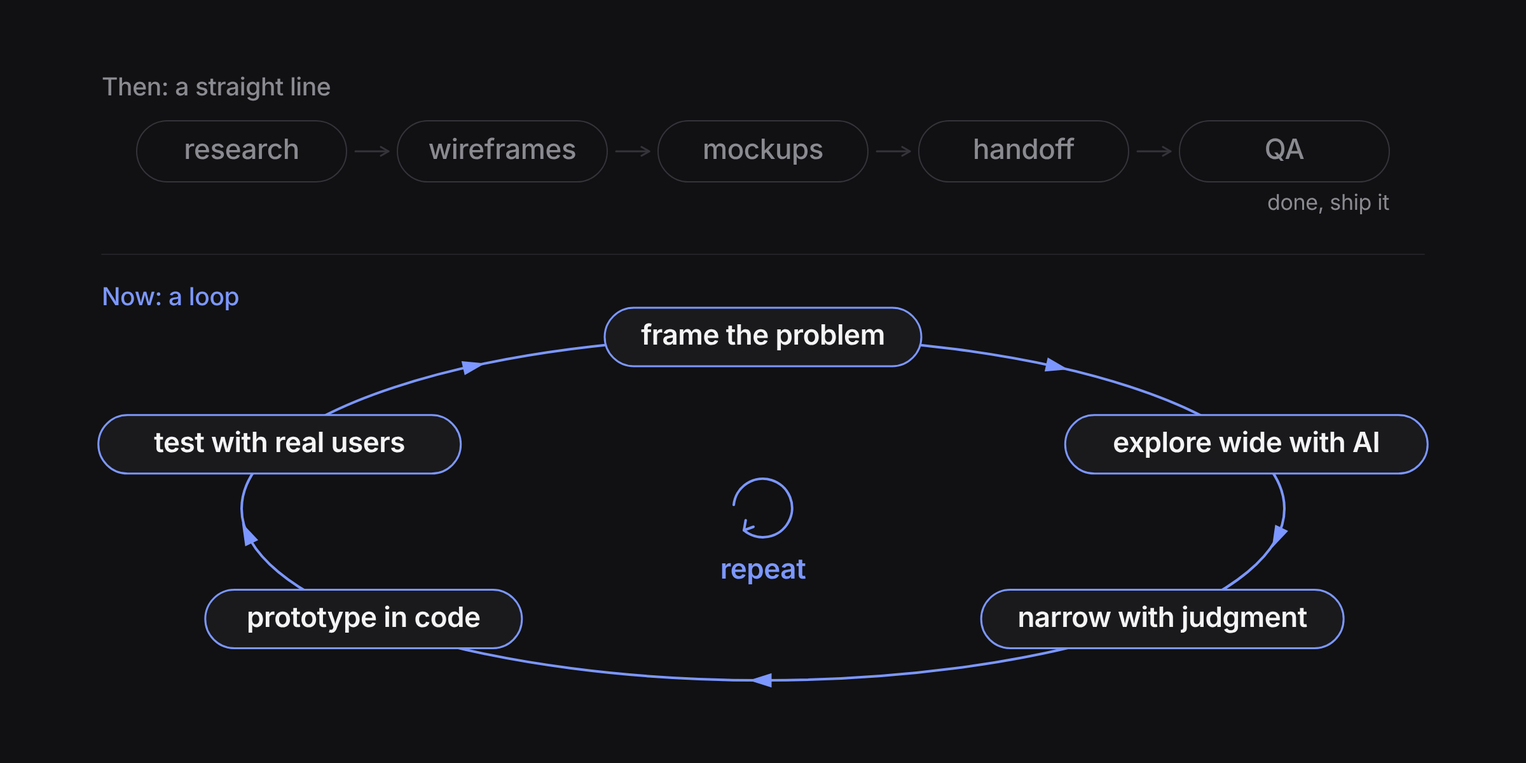
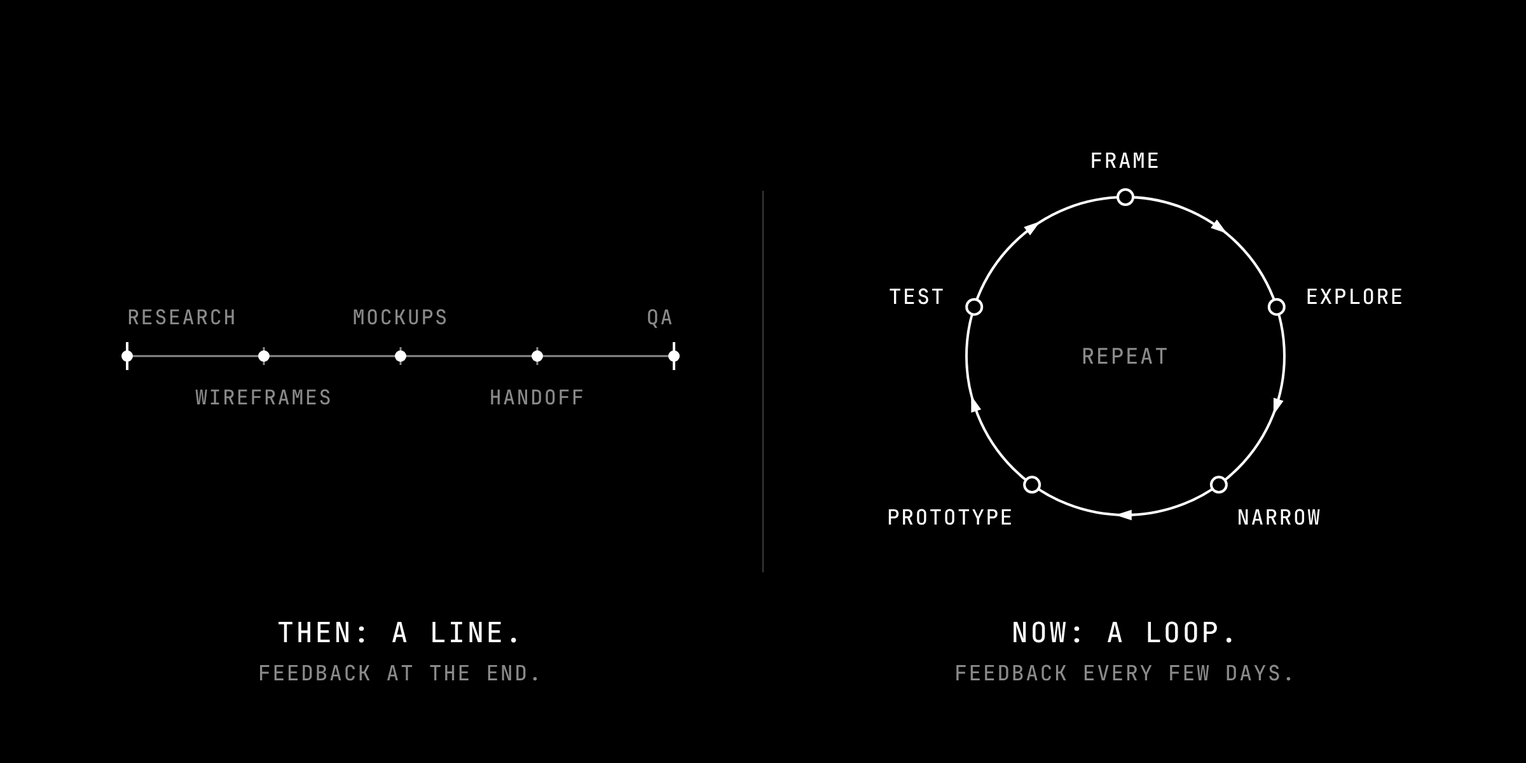
Writing: black and white line-drawing diagrams for the workflow post
Claude-Session: https://claude.ai/code/session_01XsxMJzHnu4bQwP42zg3JzL

diff --git a/p02/writing/workflow.html b/p02/writing/workflow.html
@@ -142,7 +142,7 @@
       <p class="flow">frame the problem → explore wide with AI → narrow with judgment → prototype in code → test with real users → repeat</p>
 
       <figure>
-        <button class="zoom" type="button" aria-label="Enlarge image"><img src="../../img/blog-wf-loop.png" data-light="../../img/blog-wf-loop.png" data-dark="../../img/blog-wf-loop-dark.png" width="2400" height="1200" alt="Diagram: the old process as five steps in a straight line, research, wireframes, mockups, handoff and QA. Below it, the new process as a loop: frame the problem, explore wide with AI, narrow with judgment, prototype in code, test with real users, and repeat."><span class="zoom-hint" aria-hidden="true"><svg width="16" height="16" viewBox="0 0 24 24" fill="none" stroke="currentColor" stroke-width="2" stroke-linecap="round" stroke-linejoin="round"><path d="M15 3h6v6M9 21H3v-6M21 3l-7 7M3 21l7-7"/></svg></span></button>
+        <button class="zoom" type="button" aria-label="Enlarge image"><img src="../../img/blog-wf-loop.png?v=3" data-light="../../img/blog-wf-loop.png?v=3" data-dark="../../img/blog-wf-loop-dark.png?v=3" width="2400" height="1200" alt="Line drawing: the old process as five steps in a straight line, research, wireframes, mockups, handoff and QA. Below it, the new process as a loop: frame the problem, explore wide with AI, narrow with judgment, prototype in code, test with real users, and repeat."><span class="zoom-hint" aria-hidden="true"><svg width="16" height="16" viewBox="0 0 24 24" fill="none" stroke="currentColor" stroke-width="2" stroke-linecap="round" stroke-linejoin="round"><path d="M15 3h6v6M9 21H3v-6M21 3l-7 7M3 21l7-7"/></svg></span></button>
         <figcaption>The old flow ends at QA. The new one keeps going.</figcaption>
       </figure>
 
@@ -164,7 +164,7 @@
       <p>When a designer can build a working version, the conversation with engineers changes. We talk about real behaviour instead of annotated screenshots. Engineers come in earlier, and the prototype becomes something everyone can click, not a document someone has to interpret. Designers aren’t replacing engineers. The overlap between the two roles is simply where a lot of the best work happens now.</p>
 
       <figure>
-        <button class="zoom" type="button" aria-label="Enlarge image"><img src="../../img/blog-wf-blur.png" data-light="../../img/blog-wf-blur.png" data-dark="../../img/blog-wf-blur-dark.png" width="2400" height="1200" loading="lazy" alt="Diagram: on the left, design and engineering as two separate boxes with a wall between them and a spec thrown over it. On the right, design and engineering as two overlapping circles, with prototype and ship in the overlap."><span class="zoom-hint" aria-hidden="true"><svg width="16" height="16" viewBox="0 0 24 24" fill="none" stroke="currentColor" stroke-width="2" stroke-linecap="round" stroke-linejoin="round"><path d="M15 3h6v6M9 21H3v-6M21 3l-7 7M3 21l7-7"/></svg></span></button>
+        <button class="zoom" type="button" aria-label="Enlarge image"><img src="../../img/blog-wf-blur.png?v=3" data-light="../../img/blog-wf-blur.png?v=3" data-dark="../../img/blog-wf-blur-dark.png?v=3" width="2400" height="1200" loading="lazy" alt="Line drawing: on the left, design and engineering as two separate circles with a wall between them and a spec thrown over it. On the right, the two circles overlap, and the shaded overlap is labelled prototype and ship."><span class="zoom-hint" aria-hidden="true"><svg width="16" height="16" viewBox="0 0 24 24" fill="none" stroke="currentColor" stroke-width="2" stroke-linecap="round" stroke-linejoin="round"><path d="M15 3h6v6M9 21H3v-6M21 3l-7 7M3 21l7-7"/></svg></span></button>
         <figcaption>Less throwing specs over the wall, more building in the overlap.</figcaption>
       </figure>
 
@@ -173,7 +173,7 @@
       <p>Deciding which ones matter is the hard part. Every generated option still has to pass the same filters. Does it help the user do what they came to do? Does it serve the business goal? What are we trading away to get it? AI can’t answer those for you, because the answers live in context it doesn’t have. The making got faster. The judgment got more important.</p>
 
       <figure>
-        <button class="zoom" type="button" aria-label="Enlarge image"><img src="../../img/blog-wf-judgment.png" data-light="../../img/blog-wf-judgment.png" data-dark="../../img/blog-wf-judgment-dark.png" width="2400" height="1200" loading="lazy" alt="Diagram: a grid of many generated screens passes through a funnel with three filters, users, business goals and trade-offs, leaving the one screen that matters, marked with a check."><span class="zoom-hint" aria-hidden="true"><svg width="16" height="16" viewBox="0 0 24 24" fill="none" stroke="currentColor" stroke-width="2" stroke-linecap="round" stroke-linejoin="round"><path d="M15 3h6v6M9 21H3v-6M21 3l-7 7M3 21l7-7"/></svg></span></button>
+        <button class="zoom" type="button" aria-label="Enlarge image"><img src="../../img/blog-wf-judgment.png?v=3" data-light="../../img/blog-wf-judgment.png?v=3" data-dark="../../img/blog-wf-judgment-dark.png?v=3" width="2400" height="1200" loading="lazy" alt="Line drawing: a grid of many generated screens passes through a funnel with three filters, users, business goals and trade-offs, leaving the one screen that matters, marked with a check."><span class="zoom-hint" aria-hidden="true"><svg width="16" height="16" viewBox="0 0 24 24" fill="none" stroke="currentColor" stroke-width="2" stroke-linecap="round" stroke-linejoin="round"><path d="M15 3h6v6M9 21H3v-6M21 3l-7 7M3 21l7-7"/></svg></span></button>
         <figcaption>Making got cheap. Deciding which screens matter didn’t.</figcaption>
       </figure>
 
@@ -182,7 +182,7 @@
       <p>Who exactly is this for? Which problem is worth solving first? What moves the numbers for the business? What are we choosing not to build, and why? Designers who can answer those questions, and explain their reasoning to a PM, an engineer or a founder, end up shaping the product instead of decorating it.</p>
 
       <figure>
-        <button class="zoom" type="button" aria-label="Enlarge image"><img src="../../img/blog-wf-product.png" data-light="../../img/blog-wf-product.png" data-dark="../../img/blog-wf-product-dark.png" width="2400" height="1200" loading="lazy" alt="Diagram: pixel polish sits above a dashed line as the part people see. Below the line, three wider layers hold it up: trade-offs, business goals, and users at the base."><span class="zoom-hint" aria-hidden="true"><svg width="16" height="16" viewBox="0 0 24 24" fill="none" stroke="currentColor" stroke-width="2" stroke-linecap="round" stroke-linejoin="round"><path d="M15 3h6v6M9 21H3v-6M21 3l-7 7M3 21l7-7"/></svg></span></button>
+        <button class="zoom" type="button" aria-label="Enlarge image"><img src="../../img/blog-wf-product.png?v=3" data-light="../../img/blog-wf-product.png?v=3" data-dark="../../img/blog-wf-product-dark.png?v=3" width="2400" height="1200" loading="lazy" alt="Line drawing: pixel polish sits above a dashed line as what people see. Below the line, three nested arcs hold it up: trade-offs, business goals, and users as the widest."><span class="zoom-hint" aria-hidden="true"><svg width="16" height="16" viewBox="0 0 24 24" fill="none" stroke="currentColor" stroke-width="2" stroke-linecap="round" stroke-linejoin="round"><path d="M15 3h6v6M9 21H3v-6M21 3l-7 7M3 21l7-7"/></svg></span></button>
         <figcaption>Polish is what people notice. The layers underneath are what make it work.</figcaption>
       </figure>
 
@@ -191,7 +191,7 @@
       <p>Speed doesn’t mean rushing or skipping research. It means keeping the loops small: put a rough version in front of people early, learn, adjust and test again. By the time real engineering time goes in, the idea has already been proven with real people.</p>
 
       <figure>
-        <button class="zoom" type="button" aria-label="Enlarge image"><img src="../../img/blog-wf-speed.png" data-light="../../img/blog-wf-speed.png" data-dark="../../img/blog-wf-speed-dark.png" width="2400" height="1200" loading="lazy" alt="Diagram: two six-week timelines. Above, one long pass of research, wireframes and mockups, and handoff and build, with the first real user at the end of week six. Below, three small loops inside the first week, each ending with real users, and the rest of the time spent building what was proven."><span class="zoom-hint" aria-hidden="true"><svg width="16" height="16" viewBox="0 0 24 24" fill="none" stroke="currentColor" stroke-width="2" stroke-linecap="round" stroke-linejoin="round"><path d="M15 3h6v6M9 21H3v-6M21 3l-7 7M3 21l7-7"/></svg></span></button>
+        <button class="zoom" type="button" aria-label="Enlarge image"><img src="../../img/blog-wf-speed.png?v=3" data-light="../../img/blog-wf-speed.png?v=3" data-dark="../../img/blog-wf-speed-dark.png?v=3" width="2400" height="1200" loading="lazy" alt="Line drawing: two six-week timelines. Above, one big arc from zero to six weeks, labelled this is slow. Below, twelve small arcs over the same six weeks, labelled this is fast."><span class="zoom-hint" aria-hidden="true"><svg width="16" height="16" viewBox="0 0 24 24" fill="none" stroke="currentColor" stroke-width="2" stroke-linecap="round" stroke-linejoin="round"><path d="M15 3h6v6M9 21H3v-6M21 3l-7 7M3 21l7-7"/></svg></span></button>
         <figcaption>Same six weeks. Feedback in the first one, not the last.</figcaption>
       </figure>
 
@@ -205,7 +205,7 @@
       </ul>
 
       <figure>
-        <button class="zoom" type="button" aria-label="Enlarge image"><img src="../../img/blog-wf-tools.png" data-light="../../img/blog-wf-tools.png" data-dark="../../img/blog-wf-tools-dark.png" width="2400" height="1200" loading="lazy" alt="Diagram: four steps in a row. Think with Claude, design with Figma, build with Claude Code and ship with GitHub, with a bracket underneath reading: me, in every step, framing, judgment and taste."><span class="zoom-hint" aria-hidden="true"><svg width="16" height="16" viewBox="0 0 24 24" fill="none" stroke="currentColor" stroke-width="2" stroke-linecap="round" stroke-linejoin="round"><path d="M15 3h6v6M9 21H3v-6M21 3l-7 7M3 21l7-7"/></svg></span></button>
+        <button class="zoom" type="button" aria-label="Enlarge image"><img src="../../img/blog-wf-tools.png?v=3" data-light="../../img/blog-wf-tools.png?v=3" data-dark="../../img/blog-wf-tools-dark.png?v=3" width="2400" height="1200" loading="lazy" alt="Line drawing: four steps in a row. Think with Claude, design with Figma, build with Claude Code and ship with GitHub, with a bracket underneath reading: me, in every step, framing, judgment and taste."><span class="zoom-hint" aria-hidden="true"><svg width="16" height="16" viewBox="0 0 24 24" fill="none" stroke="currentColor" stroke-width="2" stroke-linecap="round" stroke-linejoin="round"><path d="M15 3h6v6M9 21H3v-6M21 3l-7 7M3 21l7-7"/></svg></span></button>
         <figcaption>The tools do the heavy lifting. The framing, judgment and taste stay with me.</figcaption>
       </figure>
 

diff --git a/p03/writing/workflow.html b/p03/writing/workflow.html
@@ -142,7 +142,7 @@
       <p class="flow">frame the problem → explore wide with AI → narrow with judgment → prototype in code → test with real users → repeat</p>
 
       <figure>
-        <button class="zoom" type="button" aria-label="Enlarge image"><img src="../../img/blog-wf-loop.png" data-light="../../img/blog-wf-loop.png" data-dark="../../img/blog-wf-loop-dark.png" width="2400" height="1200" alt="Diagram: the old process as five steps in a straight line, research, wireframes, mockups, handoff and QA. Below it, the new process as a loop: frame the problem, explore wide with AI, narrow with judgment, prototype in code, test with real users, and repeat."><span class="zoom-hint" aria-hidden="true"><svg width="16" height="16" viewBox="0 0 24 24" fill="none" stroke="currentColor" stroke-width="2" stroke-linecap="round" stroke-linejoin="round"><path d="M15 3h6v6M9 21H3v-6M21 3l-7 7M3 21l7-7"/></svg></span></button>
+        <button class="zoom" type="button" aria-label="Enlarge image"><img src="../../img/blog-wf-loop.png?v=3" data-light="../../img/blog-wf-loop.png?v=3" data-dark="../../img/blog-wf-loop-dark.png?v=3" width="2400" height="1200" alt="Line drawing: the old process as five steps in a straight line, research, wireframes, mockups, handoff and QA. Below it, the new process as a loop: frame the problem, explore wide with AI, narrow with judgment, prototype in code, test with real users, and repeat."><span class="zoom-hint" aria-hidden="true"><svg width="16" height="16" viewBox="0 0 24 24" fill="none" stroke="currentColor" stroke-width="2" stroke-linecap="round" stroke-linejoin="round"><path d="M15 3h6v6M9 21H3v-6M21 3l-7 7M3 21l7-7"/></svg></span></button>
         <figcaption>The old flow ends at QA. The new one keeps going.</figcaption>
       </figure>
 
@@ -164,7 +164,7 @@
       <p>When a designer can build a working version, the conversation with engineers changes. We talk about real behaviour instead of annotated screenshots. Engineers come in earlier, and the prototype becomes something everyone can click, not a document someone has to interpret. Designers aren’t replacing engineers. The overlap between the two roles is simply where a lot of the best work happens now.</p>
 
       <figure>
-        <button class="zoom" type="button" aria-label="Enlarge image"><img src="../../img/blog-wf-blur.png" data-light="../../img/blog-wf-blur.png" data-dark="../../img/blog-wf-blur-dark.png" width="2400" height="1200" loading="lazy" alt="Diagram: on the left, design and engineering as two separate boxes with a wall between them and a spec thrown over it. On the right, design and engineering as two overlapping circles, with prototype and ship in the overlap."><span class="zoom-hint" aria-hidden="true"><svg width="16" height="16" viewBox="0 0 24 24" fill="none" stroke="currentColor" stroke-width="2" stroke-linecap="round" stroke-linejoin="round"><path d="M15 3h6v6M9 21H3v-6M21 3l-7 7M3 21l7-7"/></svg></span></button>
+        <button class="zoom" type="button" aria-label="Enlarge image"><img src="../../img/blog-wf-blur.png?v=3" data-light="../../img/blog-wf-blur.png?v=3" data-dark="../../img/blog-wf-blur-dark.png?v=3" width="2400" height="1200" loading="lazy" alt="Line drawing: on the left, design and engineering as two separate circles with a wall between them and a spec thrown over it. On the right, the two circles overlap, and the shaded overlap is labelled prototype and ship."><span class="zoom-hint" aria-hidden="true"><svg width="16" height="16" viewBox="0 0 24 24" fill="none" stroke="currentColor" stroke-width="2" stroke-linecap="round" stroke-linejoin="round"><path d="M15 3h6v6M9 21H3v-6M21 3l-7 7M3 21l7-7"/></svg></span></button>
         <figcaption>Less throwing specs over the wall, more building in the overlap.</figcaption>
       </figure>
 
@@ -173,7 +173,7 @@
       <p>Deciding which ones matter is the hard part. Every generated option still has to pass the same filters. Does it help the user do what they came to do? Does it serve the business goal? What are we trading away to get it? AI can’t answer those for you, because the answers live in context it doesn’t have. The making got faster. The judgment got more important.</p>
 
       <figure>
-        <button class="zoom" type="button" aria-label="Enlarge image"><img src="../../img/blog-wf-judgment.png" data-light="../../img/blog-wf-judgment.png" data-dark="../../img/blog-wf-judgment-dark.png" width="2400" height="1200" loading="lazy" alt="Diagram: a grid of many generated screens passes through a funnel with three filters, users, business goals and trade-offs, leaving the one screen that matters, marked with a check."><span class="zoom-hint" aria-hidden="true"><svg width="16" height="16" viewBox="0 0 24 24" fill="none" stroke="currentColor" stroke-width="2" stroke-linecap="round" stroke-linejoin="round"><path d="M15 3h6v6M9 21H3v-6M21 3l-7 7M3 21l7-7"/></svg></span></button>
+        <button class="zoom" type="button" aria-label="Enlarge image"><img src="../../img/blog-wf-judgment.png?v=3" data-light="../../img/blog-wf-judgment.png?v=3" data-dark="../../img/blog-wf-judgment-dark.png?v=3" width="2400" height="1200" loading="lazy" alt="Line drawing: a grid of many generated screens passes through a funnel with three filters, users, business goals and trade-offs, leaving the one screen that matters, marked with a check."><span class="zoom-hint" aria-hidden="true"><svg width="16" height="16" viewBox="0 0 24 24" fill="none" stroke="currentColor" stroke-width="2" stroke-linecap="round" stroke-linejoin="round"><path d="M15 3h6v6M9 21H3v-6M21 3l-7 7M3 21l7-7"/></svg></span></button>
         <figcaption>Making got cheap. Deciding which screens matter didn’t.</figcaption>
       </figure>
 
@@ -182,7 +182,7 @@
       <p>Who exactly is this for? Which problem is worth solving first? What moves the numbers for the business? What are we choosing not to build, and why? Designers who can answer those questions, and explain their reasoning to a PM, an engineer or a founder, end up shaping the product instead of decorating it.</p>
 
       <figure>
-        <button class="zoom" type="button" aria-label="Enlarge image"><img src="../../img/blog-wf-product.png" data-light="../../img/blog-wf-product.png" data-dark="../../img/blog-wf-product-dark.png" width="2400" height="1200" loading="lazy" alt="Diagram: pixel polish sits above a dashed line as the part people see. Below the line, three wider layers hold it up: trade-offs, business goals, and users at the base."><span class="zoom-hint" aria-hidden="true"><svg width="16" height="16" viewBox="0 0 24 24" fill="none" stroke="currentColor" stroke-width="2" stroke-linecap="round" stroke-linejoin="round"><path d="M15 3h6v6M9 21H3v-6M21 3l-7 7M3 21l7-7"/></svg></span></button>
+        <button class="zoom" type="button" aria-label="Enlarge image"><img src="../../img/blog-wf-product.png?v=3" data-light="../../img/blog-wf-product.png?v=3" data-dark="../../img/blog-wf-product-dark.png?v=3" width="2400" height="1200" loading="lazy" alt="Line drawing: pixel polish sits above a dashed line as what people see. Below the line, three nested arcs hold it up: trade-offs, business goals, and users as the widest."><span class="zoom-hint" aria-hidden="true"><svg width="16" height="16" viewBox="0 0 24 24" fill="none" stroke="currentColor" stroke-width="2" stroke-linecap="round" stroke-linejoin="round"><path d="M15 3h6v6M9 21H3v-6M21 3l-7 7M3 21l7-7"/></svg></span></button>
         <figcaption>Polish is what people notice. The layers underneath are what make it work.</figcaption>
       </figure>
 
@@ -191,7 +191,7 @@
       <p>Speed doesn’t mean rushing or skipping research. It means keeping the loops small: put a rough version in front of people early, learn, adjust and test again. By the time real engineering time goes in, the idea has already been proven with real people.</p>
 
       <figure>
-        <button class="zoom" type="button" aria-label="Enlarge image"><img src="../../img/blog-wf-speed.png" data-light="../../img/blog-wf-speed.png" data-dark="../../img/blog-wf-speed-dark.png" width="2400" height="1200" loading="lazy" alt="Diagram: two six-week timelines. Above, one long pass of research, wireframes and mockups, and handoff and build, with the first real user at the end of week six. Below, three small loops inside the first week, each ending with real users, and the rest of the time spent building what was proven."><span class="zoom-hint" aria-hidden="true"><svg width="16" height="16" viewBox="0 0 24 24" fill="none" stroke="currentColor" stroke-width="2" stroke-linecap="round" stroke-linejoin="round"><path d="M15 3h6v6M9 21H3v-6M21 3l-7 7M3 21l7-7"/></svg></span></button>
+        <button class="zoom" type="button" aria-label="Enlarge image"><img src="../../img/blog-wf-speed.png?v=3" data-light="../../img/blog-wf-speed.png?v=3" data-dark="../../img/blog-wf-speed-dark.png?v=3" width="2400" height="1200" loading="lazy" alt="Line drawing: two six-week timelines. Above, one big arc from zero to six weeks, labelled this is slow. Below, twelve small arcs over the same six weeks, labelled this is fast."><span class="zoom-hint" aria-hidden="true"><svg width="16" height="16" viewBox="0 0 24 24" fill="none" stroke="currentColor" stroke-width="2" stroke-linecap="round" stroke-linejoin="round"><path d="M15 3h6v6M9 21H3v-6M21 3l-7 7M3 21l7-7"/></svg></span></button>
         <figcaption>Same six weeks. Feedback in the first one, not the last.</figcaption>
       </figure>
 
@@ -205,7 +205,7 @@
       </ul>
 
       <figure>
-        <button class="zoom" type="button" aria-label="Enlarge image"><img src="../../img/blog-wf-tools.png" data-light="../../img/blog-wf-tools.png" data-dark="../../img/blog-wf-tools-dark.png" width="2400" height="1200" loading="lazy" alt="Diagram: four steps in a row. Think with Claude, design with Figma, build with Claude Code and ship with GitHub, with a bracket underneath reading: me, in every step, framing, judgment and taste."><span class="zoom-hint" aria-hidden="true"><svg width="16" height="16" viewBox="0 0 24 24" fill="none" stroke="currentColor" stroke-width="2" stroke-linecap="round" stroke-linejoin="round"><path d="M15 3h6v6M9 21H3v-6M21 3l-7 7M3 21l7-7"/></svg></span></button>
+        <button class="zoom" type="button" aria-label="Enlarge image"><img src="../../img/blog-wf-tools.png?v=3" data-light="../../img/blog-wf-tools.png?v=3" data-dark="../../img/blog-wf-tools-dark.png?v=3" width="2400" height="1200" loading="lazy" alt="Line drawing: four steps in a row. Think with Claude, design with Figma, build with Claude Code and ship with GitHub, with a bracket underneath reading: me, in every step, framing, judgment and taste."><span class="zoom-hint" aria-hidden="true"><svg width="16" height="16" viewBox="0 0 24 24" fill="none" stroke="currentColor" stroke-width="2" stroke-linecap="round" stroke-linejoin="round"><path d="M15 3h6v6M9 21H3v-6M21 3l-7 7M3 21l7-7"/></svg></span></button>
         <figcaption>The tools do the heavy lifting. The framing, judgment and taste stay with me.</figcaption>
       </figure>
 

diff --git a/writing/workflow.html b/writing/workflow.html
@@ -142,7 +142,7 @@
       <p class="flow">frame the problem → explore wide with AI → narrow with judgment → prototype in code → test with real users → repeat</p>
 
       <figure>
-        <button class="zoom" type="button" aria-label="Enlarge image"><img src="../img/blog-wf-loop.png" data-light="../img/blog-wf-loop.png" data-dark="../img/blog-wf-loop-dark.png" width="2400" height="1200" alt="Diagram: the old process as five steps in a straight line, research, wireframes, mockups, handoff and QA. Below it, the new process as a loop: frame the problem, explore wide with AI, narrow with judgment, prototype in code, test with real users, and repeat."><span class="zoom-hint" aria-hidden="true"><svg width="16" height="16" viewBox="0 0 24 24" fill="none" stroke="currentColor" stroke-width="2" stroke-linecap="round" stroke-linejoin="round"><path d="M15 3h6v6M9 21H3v-6M21 3l-7 7M3 21l7-7"/></svg></span></button>
+        <button class="zoom" type="button" aria-label="Enlarge image"><img src="../img/blog-wf-loop.png?v=3" data-light="../img/blog-wf-loop.png?v=3" data-dark="../img/blog-wf-loop-dark.png?v=3" width="2400" height="1200" alt="Line drawing: the old process as five steps in a straight line, research, wireframes, mockups, handoff and QA. Below it, the new process as a loop: frame the problem, explore wide with AI, narrow with judgment, prototype in code, test with real users, and repeat."><span class="zoom-hint" aria-hidden="true"><svg width="16" height="16" viewBox="0 0 24 24" fill="none" stroke="currentColor" stroke-width="2" stroke-linecap="round" stroke-linejoin="round"><path d="M15 3h6v6M9 21H3v-6M21 3l-7 7M3 21l7-7"/></svg></span></button>
         <figcaption>The old flow ends at QA. The new one keeps going.</figcaption>
       </figure>
 
@@ -164,7 +164,7 @@
       <p>When a designer can build a working version, the conversation with engineers changes. We talk about real behaviour instead of annotated screenshots. Engineers come in earlier, and the prototype becomes something everyone can click, not a document someone has to interpret. Designers aren’t replacing engineers. The overlap between the two roles is simply where a lot of the best work happens now.</p>
 
       <figure>
-        <button class="zoom" type="button" aria-label="Enlarge image"><img src="../img/blog-wf-blur.png" data-light="../img/blog-wf-blur.png" data-dark="../img/blog-wf-blur-dark.png" width="2400" height="1200" loading="lazy" alt="Diagram: on the left, design and engineering as two separate boxes with a wall between them and a spec thrown over it. On the right, design and engineering as two overlapping circles, with prototype and ship in the overlap."><span class="zoom-hint" aria-hidden="true"><svg width="16" height="16" viewBox="0 0 24 24" fill="none" stroke="currentColor" stroke-width="2" stroke-linecap="round" stroke-linejoin="round"><path d="M15 3h6v6M9 21H3v-6M21 3l-7 7M3 21l7-7"/></svg></span></button>
+        <button class="zoom" type="button" aria-label="Enlarge image"><img src="../img/blog-wf-blur.png?v=3" data-light="../img/blog-wf-blur.png?v=3" data-dark="../img/blog-wf-blur-dark.png?v=3" width="2400" height="1200" loading="lazy" alt="Line drawing: on the left, design and engineering as two separate circles with a wall between them and a spec thrown over it. On the right, the two circles overlap, and the shaded overlap is labelled prototype and ship."><span class="zoom-hint" aria-hidden="true"><svg width="16" height="16" viewBox="0 0 24 24" fill="none" stroke="currentColor" stroke-width="2" stroke-linecap="round" stroke-linejoin="round"><path d="M15 3h6v6M9 21H3v-6M21 3l-7 7M3 21l7-7"/></svg></span></button>
         <figcaption>Less throwing specs over the wall, more building in the overlap.</figcaption>
       </figure>
 
@@ -173,7 +173,7 @@
       <p>Deciding which ones matter is the hard part. Every generated option still has to pass the same filters. Does it help the user do what they came to do? Does it serve the business goal? What are we trading away to get it? AI can’t answer those for you, because the answers live in context it doesn’t have. The making got faster. The judgment got more important.</p>
 
       <figure>
-        <button class="zoom" type="button" aria-label="Enlarge image"><img src="../img/blog-wf-judgment.png" data-light="../img/blog-wf-judgment.png" data-dark="../img/blog-wf-judgment-dark.png" width="2400" height="1200" loading="lazy" alt="Diagram: a grid of many generated screens passes through a funnel with three filters, users, business goals and trade-offs, leaving the one screen that matters, marked with a check."><span class="zoom-hint" aria-hidden="true"><svg width="16" height="16" viewBox="0 0 24 24" fill="none" stroke="currentColor" stroke-width="2" stroke-linecap="round" stroke-linejoin="round"><path d="M15 3h6v6M9 21H3v-6M21 3l-7 7M3 21l7-7"/></svg></span></button>
+        <button class="zoom" type="button" aria-label="Enlarge image"><img src="../img/blog-wf-judgment.png?v=3" data-light="../img/blog-wf-judgment.png?v=3" data-dark="../img/blog-wf-judgment-dark.png?v=3" width="2400" height="1200" loading="lazy" alt="Line drawing: a grid of many generated screens passes through a funnel with three filters, users, business goals and trade-offs, leaving the one screen that matters, marked with a check."><span class="zoom-hint" aria-hidden="true"><svg width="16" height="16" viewBox="0 0 24 24" fill="none" stroke="currentColor" stroke-width="2" stroke-linecap="round" stroke-linejoin="round"><path d="M15 3h6v6M9 21H3v-6M21 3l-7 7M3 21l7-7"/></svg></span></button>
         <figcaption>Making got cheap. Deciding which screens matter didn’t.</figcaption>
       </figure>
 
@@ -182,7 +182,7 @@
       <p>Who exactly is this for? Which problem is worth solving first? What moves the numbers for the business? What are we choosing not to build, and why? Designers who can answer those questions, and explain their reasoning to a PM, an engineer or a founder, end up shaping the product instead of decorating it.</p>
 
       <figure>
-        <button class="zoom" type="button" aria-label="Enlarge image"><img src="../img/blog-wf-product.png" data-light="../img/blog-wf-product.png" data-dark="../img/blog-wf-product-dark.png" width="2400" height="1200" loading="lazy" alt="Diagram: pixel polish sits above a dashed line as the part people see. Below the line, three wider layers hold it up: trade-offs, business goals, and users at the base."><span class="zoom-hint" aria-hidden="true"><svg width="16" height="16" viewBox="0 0 24 24" fill="none" stroke="currentColor" stroke-width="2" stroke-linecap="round" stroke-linejoin="round"><path d="M15 3h6v6M9 21H3v-6M21 3l-7 7M3 21l7-7"/></svg></span></button>
+        <button class="zoom" type="button" aria-label="Enlarge image"><img src="../img/blog-wf-product.png?v=3" data-light="../img/blog-wf-product.png?v=3" data-dark="../img/blog-wf-product-dark.png?v=3" width="2400" height="1200" loading="lazy" alt="Line drawing: pixel polish sits above a dashed line as what people see. Below the line, three nested arcs hold it up: trade-offs, business goals, and users as the widest."><span class="zoom-hint" aria-hidden="true"><svg width="16" height="16" viewBox="0 0 24 24" fill="none" stroke="currentColor" stroke-width="2" stroke-linecap="round" stroke-linejoin="round"><path d="M15 3h6v6M9 21H3v-6M21 3l-7 7M3 21l7-7"/></svg></span></button>
         <figcaption>Polish is what people notice. The layers underneath are what make it work.</figcaption>
       </figure>
 
@@ -191,7 +191,7 @@
       <p>Speed doesn’t mean rushing or skipping research. It means keeping the loops small: put a rough version in front of people early, learn, adjust and test again. By the time real engineering time goes in, the idea has already been proven with real people.</p>
 
       <figure>
-        <button class="zoom" type="button" aria-label="Enlarge image"><img src="../img/blog-wf-speed.png" data-light="../img/blog-wf-speed.png" data-dark="../img/blog-wf-speed-dark.png" width="2400" height="1200" loading="lazy" alt="Diagram: two six-week timelines. Above, one long pass of research, wireframes and mockups, and handoff and build, with the first real user at the end of week six. Below, three small loops inside the first week, each ending with real users, and the rest of the time spent building what was proven."><span class="zoom-hint" aria-hidden="true"><svg width="16" height="16" viewBox="0 0 24 24" fill="none" stroke="currentColor" stroke-width="2" stroke-linecap="round" stroke-linejoin="round"><path d="M15 3h6v6M9 21H3v-6M21 3l-7 7M3 21l7-7"/></svg></span></button>
+        <button class="zoom" type="button" aria-label="Enlarge image"><img src="../img/blog-wf-speed.png?v=3" data-light="../img/blog-wf-speed.png?v=3" data-dark="../img/blog-wf-speed-dark.png?v=3" width="2400" height="1200" loading="lazy" alt="Line drawing: two six-week timelines. Above, one big arc from zero to six weeks, labelled this is slow. Below, twelve small arcs over the same six weeks, labelled this is fast."><span class="zoom-hint" aria-hidden="true"><svg width="16" height="16" viewBox="0 0 24 24" fill="none" stroke="currentColor" stroke-width="2" stroke-linecap="round" stroke-linejoin="round"><path d="M15 3h6v6M9 21H3v-6M21 3l-7 7M3 21l7-7"/></svg></span></button>
         <figcaption>Same six weeks. Feedback in the first one, not the last.</figcaption>
       </figure>
 
@@ -205,7 +205,7 @@
       </ul>
 
       <figure>
-        <button class="zoom" type="button" aria-label="Enlarge image"><img src="../img/blog-wf-tools.png" data-light="../img/blog-wf-tools.png" data-dark="../img/blog-wf-tools-dark.png" width="2400" height="1200" loading="lazy" alt="Diagram: four steps in a row. Think with Claude, design with Figma, build with Claude Code and ship with GitHub, with a bracket underneath reading: me, in every step, framing, judgment and taste."><span class="zoom-hint" aria-hidden="true"><svg width="16" height="16" viewBox="0 0 24 24" fill="none" stroke="currentColor" stroke-width="2" stroke-linecap="round" stroke-linejoin="round"><path d="M15 3h6v6M9 21H3v-6M21 3l-7 7M3 21l7-7"/></svg></span></button>
+        <button class="zoom" type="button" aria-label="Enlarge image"><img src="../img/blog-wf-tools.png?v=3" data-light="../img/blog-wf-tools.png?v=3" data-dark="../img/blog-wf-tools-dark.png?v=3" width="2400" height="1200" loading="lazy" alt="Line drawing: four steps in a row. Think with Claude, design with Figma, build with Claude Code and ship with GitHub, with a bracket underneath reading: me, in every step, framing, judgment and taste."><span class="zoom-hint" aria-hidden="true"><svg width="16" height="16" viewBox="0 0 24 24" fill="none" stroke="currentColor" stroke-width="2" stroke-linecap="round" stroke-linejoin="round"><path d="M15 3h6v6M9 21H3v-6M21 3l-7 7M3 21l7-7"/></svg></span></button>
         <figcaption>The tools do the heavy lifting. The framing, judgment and taste stay with me.</figcaption>
       </figure>
 

diff --git a/p02/index.html b/p02/index.html
@@ -304,7 +304,7 @@
                 <h3>My workflow has been updated!</h3>
                 <p class="desc">Product design is changing fast. From a straight line to a loop, and the four shifts I’m seeing across the industry.</p>
                 <a class="slot" href="writing/workflow.html" aria-label="Read the post: My workflow has been updated!">
-                  <img class="sketch" alt="Diagram: the old linear design process above the new loop" width="2400" height="1200" loading="lazy" decoding="async" src="../img/blog-wf-loop.png" data-light="../img/blog-wf-loop.png" data-dark="../img/blog-wf-loop-dark.png">
+                  <img class="sketch" alt="Line drawing: the old linear design process above the new loop" width="2400" height="1200" loading="lazy" decoding="async" src="../img/blog-wf-loop.png?v=3" data-light="../img/blog-wf-loop.png?v=3" data-dark="../img/blog-wf-loop-dark.png?v=3">
                   <span class="slot-tag" aria-hidden="true">Read post</span>
                 </a>
               </article>

diff --git a/p03/index.html b/p03/index.html
@@ -304,7 +304,7 @@
                 <h3>My workflow has been updated!</h3>
                 <p class="desc">Product design is changing fast. From a straight line to a loop, and the four shifts I’m seeing across the industry.</p>
                 <a class="slot" href="writing/workflow.html" aria-label="Read the post: My workflow has been updated!">
-                  <img class="sketch" alt="Diagram: the old linear design process above the new loop" width="2400" height="1200" loading="lazy" decoding="async" src="../img/blog-wf-loop.png" data-light="../img/blog-wf-loop.png" data-dark="../img/blog-wf-loop-dark.png">
+                  <img class="sketch" alt="Line drawing: the old linear design process above the new loop" width="2400" height="1200" loading="lazy" decoding="async" src="../img/blog-wf-loop.png?v=3" data-light="../img/blog-wf-loop.png?v=3" data-dark="../img/blog-wf-loop-dark.png?v=3">
                   <span class="slot-tag" aria-hidden="true">Read post</span>
                 </a>
               </article>

diff --git a/index.html b/index.html
@@ -296,7 +296,7 @@
                 <h3>My workflow has been updated!</h3>
                 <p class="desc">Product design is changing fast. From a straight line to a loop, and the four shifts I’m seeing across the industry.</p>
                 <a class="slot" href="writing/workflow.html" aria-label="Read the post: My workflow has been updated!">
-                  <img class="sketch" alt="Diagram: the old linear design process above the new loop" width="2400" height="1200" loading="lazy" decoding="async" src="img/blog-wf-loop.png" data-light="img/blog-wf-loop.png" data-dark="img/blog-wf-loop-dark.png">
+                  <img class="sketch" alt="Line drawing: the old linear design process above the new loop" width="2400" height="1200" loading="lazy" decoding="async" src="img/blog-wf-loop.png?v=3" data-light="img/blog-wf-loop.png?v=3" data-dark="img/blog-wf-loop-dark.png?v=3">
                   <span class="slot-tag" aria-hidden="true">Read post</span>
                 </a>
               </article>
